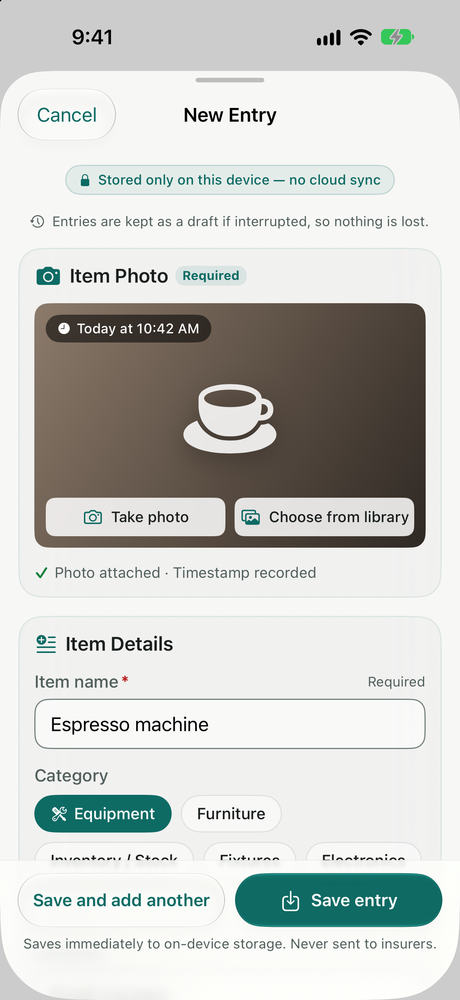
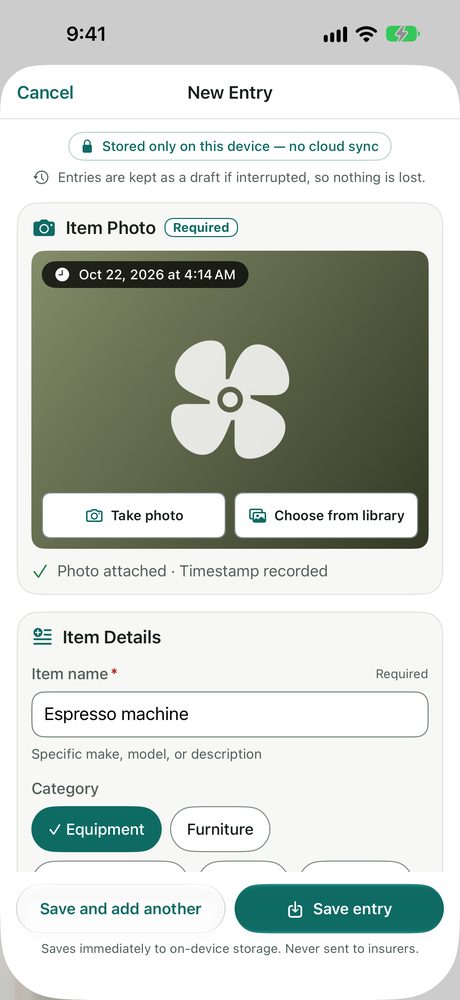
site: landing pictures are the App Store screenshots of the reviewed build (claim-ready-inventory-packager cf07de2)

diff --git a/index.html b/index.html
@@ -40,9 +40,9 @@
 </ul>
 
 <div class="shots">
-<figure><img src="img/01-ledger.png" alt="The ledger: October 2026 with 2 items captured, 1 with a receipt and 1 missing a receipt, location filters, and a POS terminal marked Missing a receipt" width="460" height="1000" loading="lazy"><figcaption>The ledger, with its location filter</figcaption></figure>
-<figure><img src="img/02-capture.png" alt="New Entry: a dated photo of an espresso machine, the item name and category, with Save and add another beside Save entry" width="460" height="1000" loading="lazy"><figcaption>Capture an item</figcaption></figure>
-<figure><img src="img/03-digest.png" alt="The monthly digest for October 2026: 1 missing a receipt and 1 receipt attached, with the POS terminal as the priority gap" width="460" height="1000" loading="lazy"><figcaption>The month&rsquo;s missing receipts</figcaption></figure>
+<figure><img src="img/01-ledger.png" alt="The ledger: October 2026 with 8 items captured, 4 with a receipt and 4 missing a receipt, location filters, and a POS terminal marked Missing a receipt" width="460" height="1000" loading="lazy"><figcaption>The ledger, with its location filter</figcaption></figure>
+<figure><img src="img/02-capture.png" alt="New Entry: a dated item photo with Take photo and Choose from library, the name Espresso machine and its category, with Save and add another beside Save entry" width="460" height="1000" loading="lazy"><figcaption>Capture an item</figcaption></figure>
+<figure><img src="img/03-digest.png" alt="The monthly digest for October 2026: 4 missing a receipt and 4 with a receipt attached, oldest first, with a steel prep table as the priority gap" width="460" height="1000" loading="lazy"><figcaption>The month&rsquo;s missing receipts</figcaption></figure>
 </div>
 <p class="muted">The screens show sample entries.</p>
 
